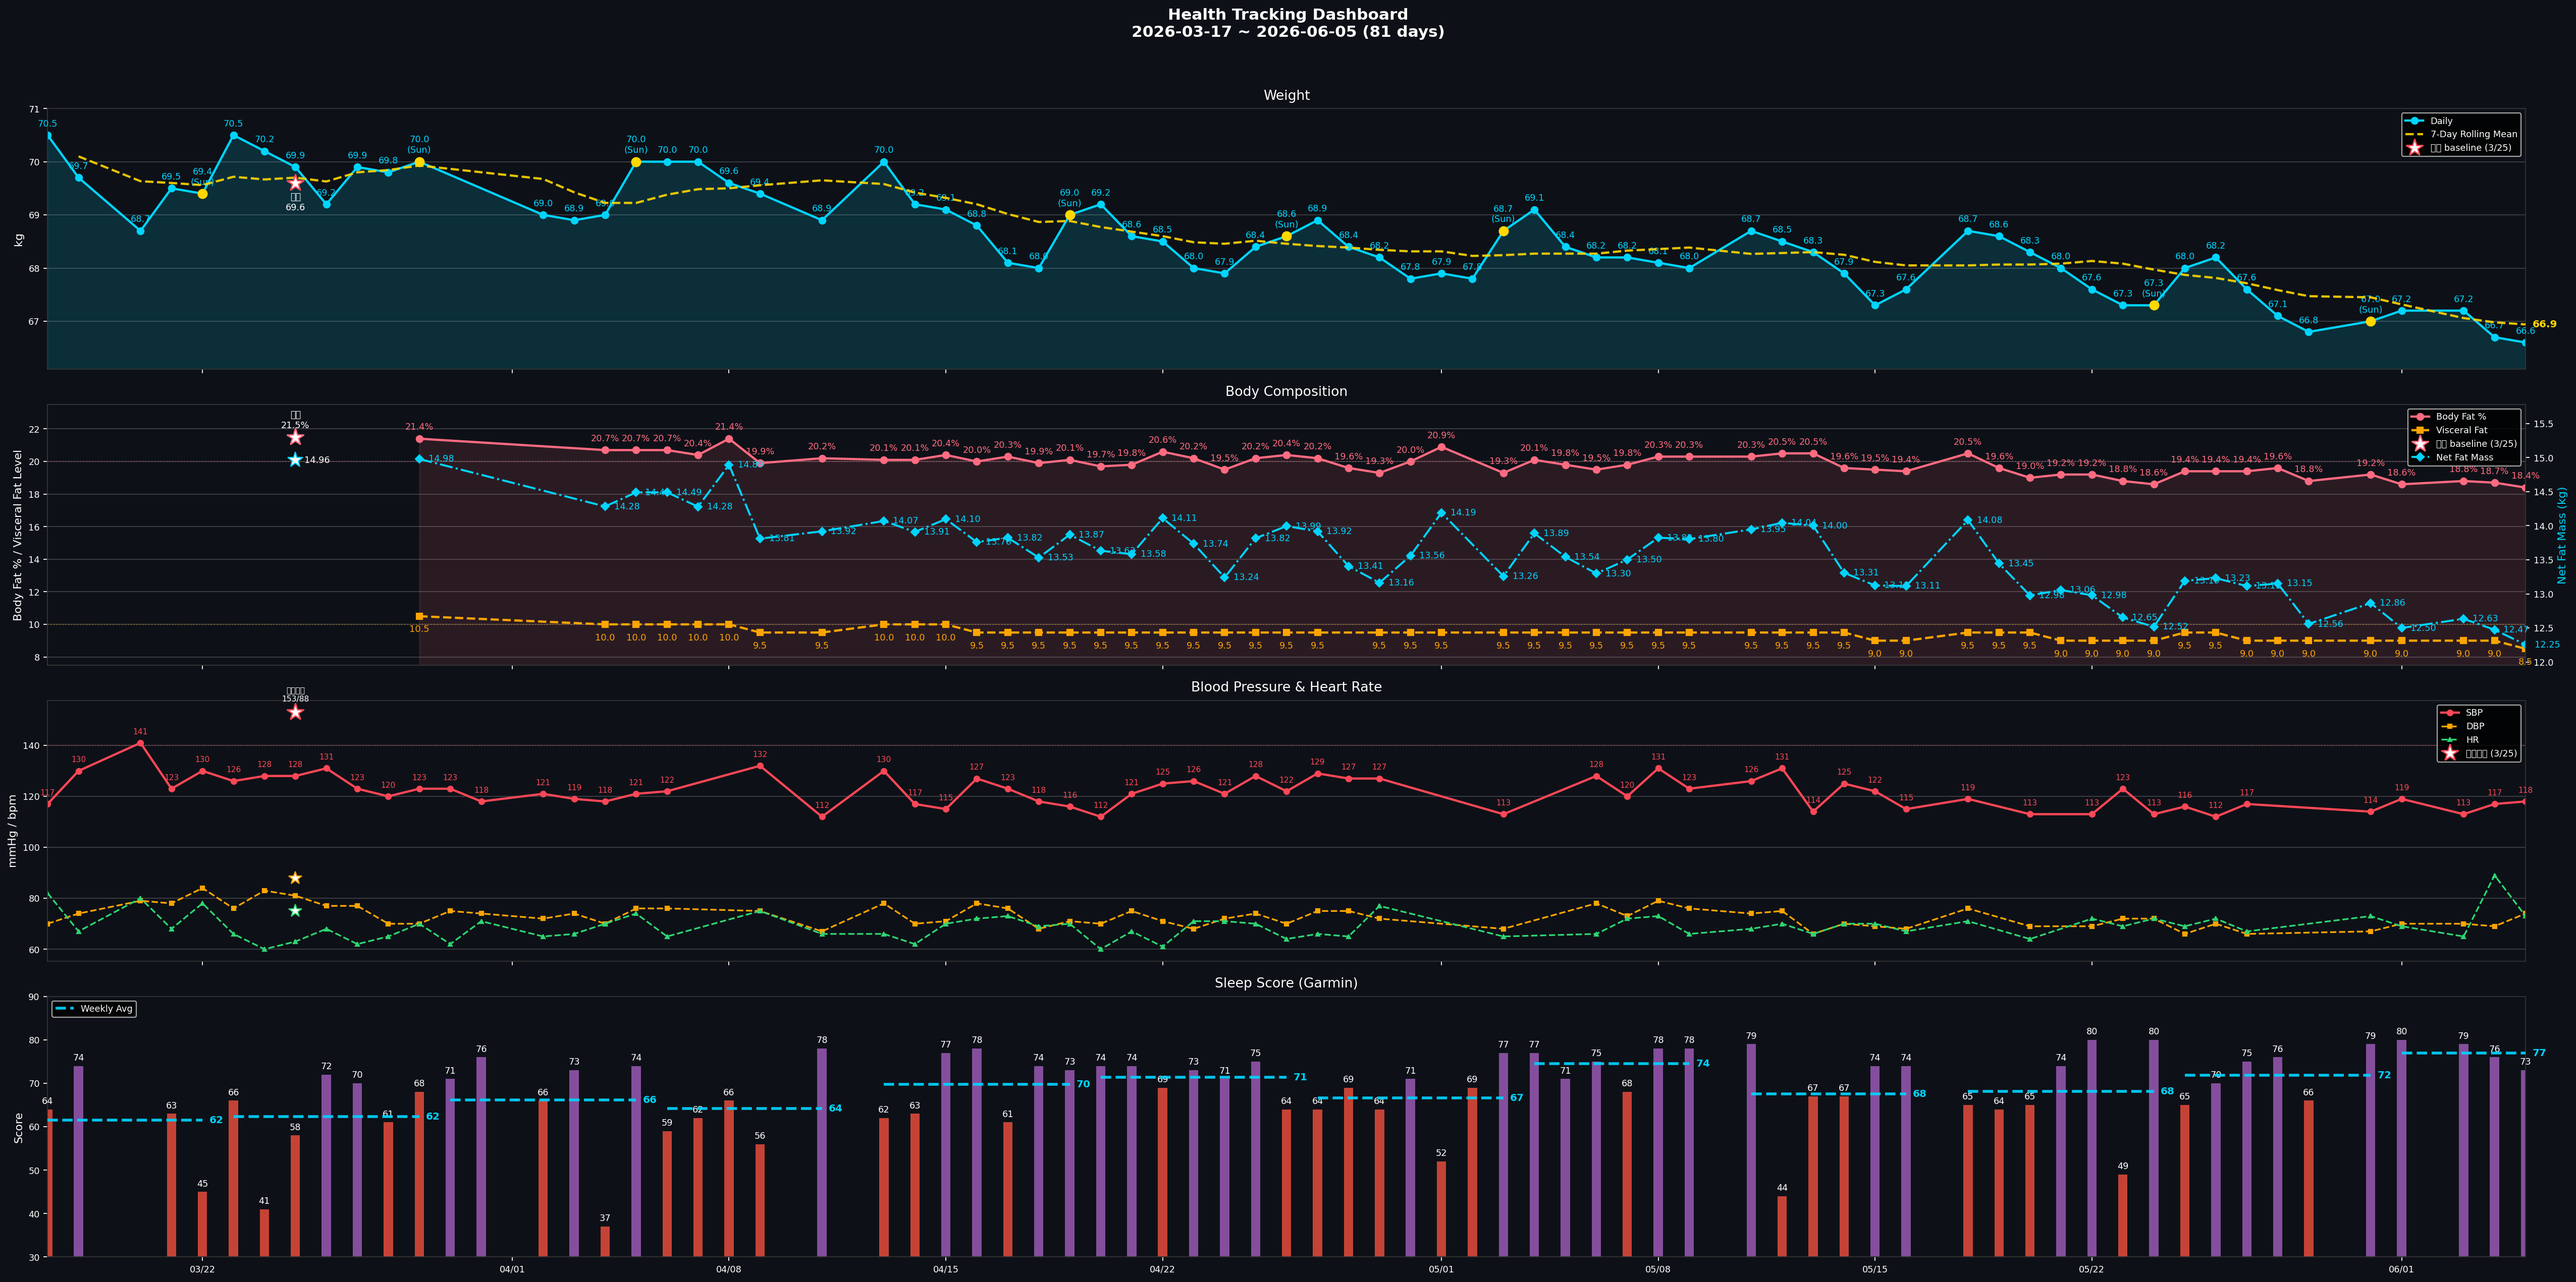
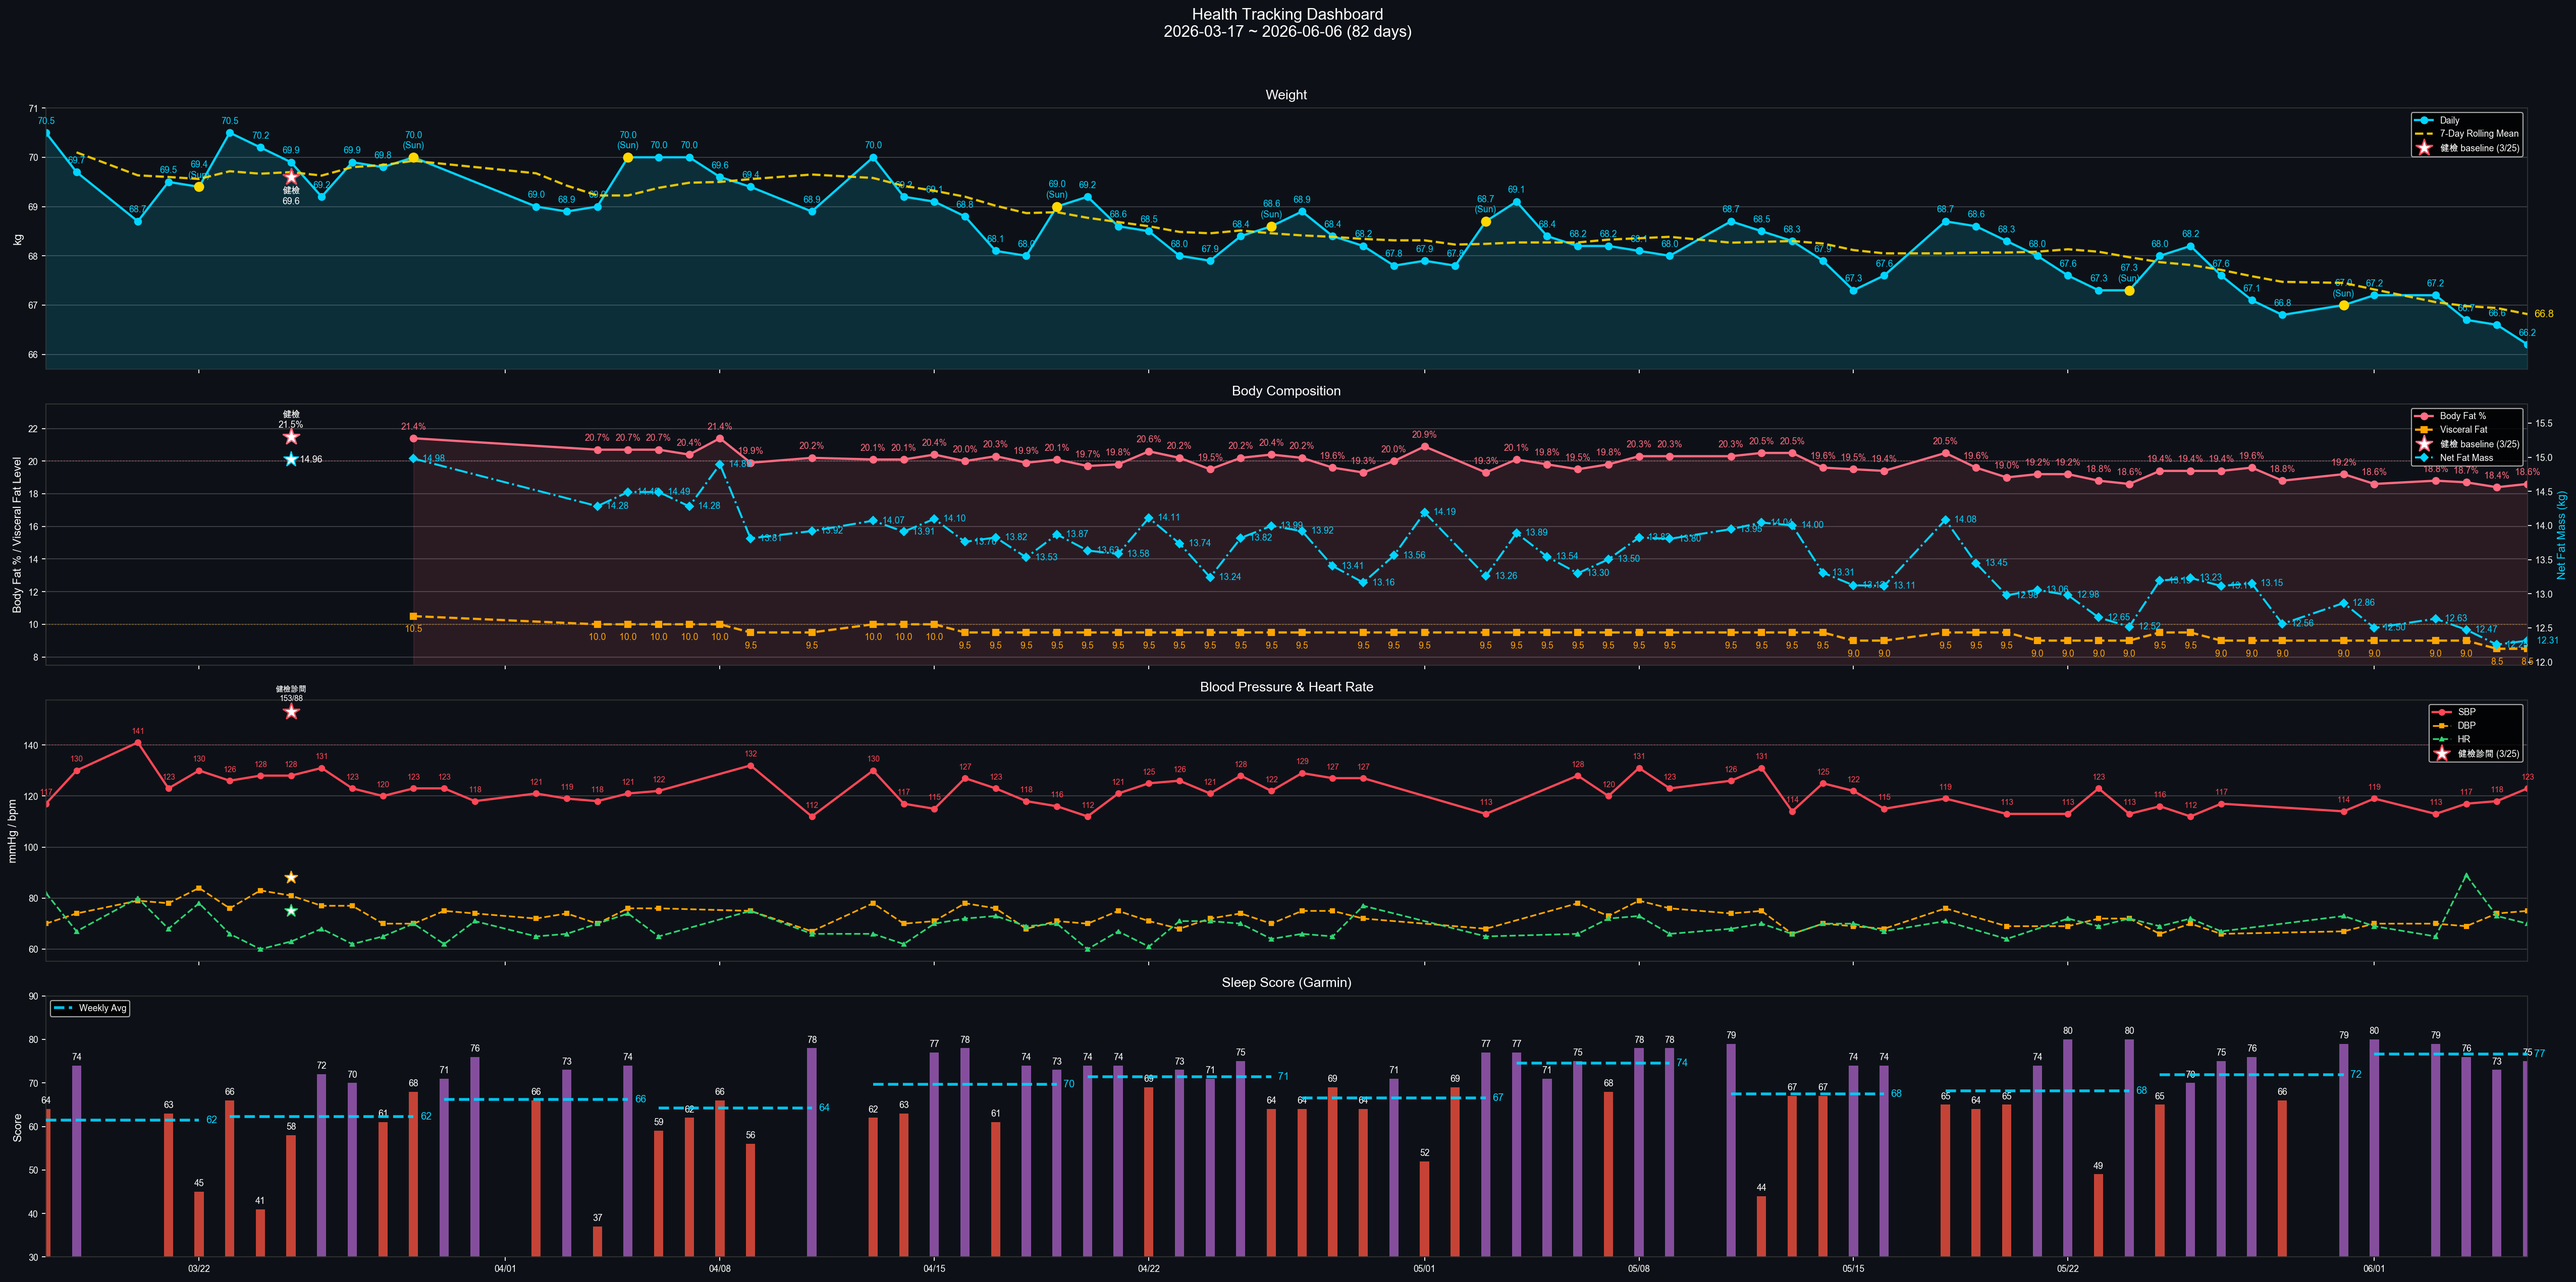
daily health log 2026-06-06

diff --git a/data.js b/data.js
@@ -17,20 +17,20 @@ window.HC_DATA = {
     lede:    { en: "Sleep, BP, lipids, uric acid — one shared metabolic root. Lifestyle stacks first; medication only after lifestyle plateaus.",
                zh: "睡眠、血壓、血脂、尿酸——共享同一個代謝根源。生活方式介入優先，等到效果平台期再考慮藥物。" },
     progressLbl: { en: "Weight progress · 70 → 65 kg", zh: "體重進度 · 70 → 65 公斤" },
-    progressMeta: { en: "Day 81 · 67.3 kg · Sat official (5/23)", zh: "第 81 天 · 67.3 公斤 · 週六正式（5/23）" },
-    startDate: { en: "Start date · Mar 17, 2026 · Last sync 6/5", zh: "起始日期 · 2026 年 3 月 17 日 · 最後同步 6/5" },
+    progressMeta: { en: "Day 82 · 66.2 kg · Sat official (6/6)", zh: "第 82 天 · 66.2 公斤 · 週六正式（6/6）" },
+    startDate: { en: "Start date · Mar 17, 2026 · Last sync 6/6", zh: "起始日期 · 2026 年 3 月 17 日 · 最後同步 6/6" },
     startWeight: 70,
     targetWeight: 65,
-    currentWeight: 67.3,
-    currentWeightDate: "5/23 Sat official",
+    currentWeight: 66.2,
+    currentWeightDate: "6/6 Sat official",
     // Body comp current actuals — latest daily reading (6/5). Manual for now:
     // sync_data_js.py does NOT yet populate these (only weight/BP/sleep). Update on daily check-in.
-    currentBodyFat: 18.4,
+    currentBodyFat: 18.6,
     currentVisceralFat: 8.5,
-    currentBodyCompDate: "6/5",
+    currentBodyCompDate: "6/6",
     // Waist = WHO midpoint (健檢-comparable; better VAT proxy than weight). Latest non-empty daily reading.
     currentWaist: 82,
-    currentWaistDate: "6/4",
+    currentWaistDate: "6/6",
   },
 
   // ===== OSA red-flag banner =====
@@ -55,21 +55,21 @@ window.HC_DATA = {
     {
       sys: "heart", name: { en: "Blood Pressure", zh: "血壓" },
       val: "115/67", unit: "mmHg",
-      delta: { en: "W22 weekly avg (4 days) · target met (<130) · last 118/74 (6/5)", zh: "W22 週均（4 天）· 已達標 (<130) · 最新 118/74 (6/5)" },
+      delta: { en: "W22 weekly avg (4 days) · target met (<130) · last 123/75 (6/6)", zh: "W22 週均（4 天）· 已達標 (<130) · 最新 123/75 (6/6)" },
       cadence: { en: "Daily · weekly avg", zh: "每日 · 週均" },
       status: "ok",
     },
     {
       sys: "sleep", name: { en: "Sleep Score", zh: "睡眠分數" },
-      val: "73", unit: "Garmin",
+      val: "75", unit: "Garmin",
       delta: { en: "5/4 · OSA flag: T90 18.4% (severe)", zh: "5/4 · OSA 紅旗：T90 18.4%（重度）" },
       cadence: { en: "Daily · Garmin", zh: "每日 · Garmin" },
       status: "warn",
     },
     {
       sys: "weight", name: { en: "Weight", zh: "體重" },
-      val: "67.3", unit: "kg",
-      delta: { en: "5/23 Sat official · auto-synced", zh: "5/23 週六正式 · 自動同步" },
+      val: "66.2", unit: "kg",
+      delta: { en: "6/6 Sat official · auto-synced", zh: "6/6 週六正式 · 自動同步" },
       cadence: { en: "Daily · Sat official", zh: "每日 · 週六正式" },
       status: "ok",
     },
@@ -937,17 +937,17 @@ window.HC_DATA = {
   tracker: {
     // [SBP, DBP] — gaps filled with prior reading
     bp: [
-      [113,69], [113,69], [123,72], [113,72], [116,66], [112,70], [117,66], [117,66], [117,66], [114,67], [119,70], [113,70], [117,69], [118,74],
+      [113,69], [123,72], [113,72], [116,66], [112,70], [117,66], [117,66], [117,66], [114,67], [119,70], [113,70], [117,69], [118,74], [123,75],
     ],
     // daily weight (kg)
-    weight: [68, 67.6, 67.3, 67.3, 68, 68.2, 67.6, 67.1, 66.8, 67, 67.2, 67.2, 66.7, 66.6],
+    weight: [67.6, 67.3, 67.3, 68, 68.2, 67.6, 67.1, 66.8, 67, 67.2, 67.2, 66.7, 66.6, 66.2],
     // Garmin Sleep Score
-    sleep:  [74, 80, 49, 80, 65, 70, 75, 76, 66, 79, 80, 79, 76, 73],
+    sleep:  [80, 49, 80, 65, 70, 75, 76, 66, 79, 80, 79, 76, 73, 75],
     // Body Battery waking
-    bb:     [61, 56, 34, 59, 55, 53, 64, 59, 55, 69, 71, 53, 41, 40],
+    bb:     [56, 34, 59, 55, 53, 64, 59, 55, 69, 71, 53, 41, 40, 39],
     // SpO2 nightly nadir % (last 14 days, parallel to bp/weight/sleep/bb).
     // Earlier nights null until sync_data_js.py backfills; banner only uses trailing values.
-    spo2Nadir: [83, 83, 84, null, null, 87, 93, 94, 91, 86, 89, 87, 92, 94],
+    spo2Nadir: [83, 84, null, null, 87, 93, 94, 91, 86, 89, 87, 92, 94, 85],
   },
 
   // ===== Running — started 2026-04-26 =====

diff --git a/reviews/daily/2026-06-06.md b/reviews/daily/2026-06-06.md
@@ -1,0 +1,116 @@
+# 晨間健康紀錄 — 2026-06-06
+
+*3 分鐘。起床後立即完成。記錄，不分析。*
+
+---
+
+## 體重 / 體組成
+
+**今日：66.2 kg**
+**體脂率：18.6 %**
+**內臟脂肪等級：8.5**
+**腰圍 (WHO midpoint)：82 cm**（最下肋骨下緣 + 髂嵴頂端兩點水平中點環繞，通常在肚臍上方 2-5 cm；**與健檢歷史可比**；目標維持 ≤ 83、推進至 < 80 cm）
+**腰圍 (最大腹圍)：[ ] cm**（自然站立、吐氣末、不收腹，軟尺上下移動找最大讀數；通常在肚臍 0 至 -4 cm；**對內臟脂肪變化最敏感**）
+
+*每週六早晨為正式體重紀錄（排尿後、進食前；連 5 個工作日後、週末大餐前的真實低點）。其他日可選填。*
+*腰圍每日量（起床排尿後、進食前）。量兩個位置（WHO + max），方向應一致；若差距 > 3 cm 持續，考慮以 max 為主追蹤指標。*
+*WHO midpoint：科學標準，國健署 / 健檢 / metabolic syndrome 診斷用；最大腹圍：內臟脂肪 visceral fat correlation 最強。*
+
+---
+
+## 血壓（晨間）
+
+*起床後 1 小時內，上完廁所、進食前。坐下安靜 5 分鐘，連量兩次取第二次。*
+
+| 次數 | 收縮壓 | 舒張壓 | 心率 |
+|------|--------|--------|------|
+| 第一次 | | | |
+| 第二次 | 123 | 75 | 70 |
+
+---
+
+## 睡眠狀態
+
+**Garmin 偵測入睡：** 22:02
+**實際上床：**（可選填 HH:MM；若填會覆寫演算法 latency 估算 — 解決 HR 訊號低估「躺床清醒」的問題）
+**實際起床：** 04:33
+**中途醒來：** 無
+**Garmin Sleep Score：** 75 / 100
+**Garmin Body Battery 起床值：** 39
+**主觀恢復感：** 3 / 5（1=極度疲憊, 5=精力充沛）
+**入睡 latency：**（自動估算，範圍 LO–HI 分）
+**TST：** 6h 27m｜深眠 86 分｜REM 43 分｜RHR 59 bpm
+
+### SpO2 夜間最低（7 晚趨勢）
+
+| 日期 | -6 | -5 | -4 | -3 | -2 | -1 | 今晨 |
+|------|----|----|----|----|----|----|------|
+| 日期 | 05-31 | 06-01 | 06-02 | 06-03 | 06-04 | 06-05 | 06-06 |
+| 最低 % | 86 | 89 | 86 | 87 | 92 | 86 | 85 |
+
+**今晨日均 SpO2：** 97.0 %
+**< 88% 連續晚數：** 2（OSA 紅旗門檻：連 3 晚 < 88% → 強烈建議 PSG）
+
+**Desat events（今晨）：** 3 段｜最長 3 分｜最低 85%｜T90 ≈ 1.8%（無紅旗：T90 < 10%、最長 < 15 分、最低 ≥ 80%）
+
+| 時段 | 長 | 最低 | 平均 | 分級 |
+|------|----|------|------|------|
+| 23:27–23:27 | 1分 | 88% | 88% | 🟢 邊緣 |
+| 23:29–23:31 | 3分 | 86% | 87% | 🟡 紅旗 |
+| 01:25–01:27 | 3分 | 85% | 86% | 🟡 紅旗 |
+
+**SpO2 全夜圖（含 hypnogram 條帶）：** reviews/daily/spo2/spo2_desat_2026-06-06.png
+**SpO2 趨勢圖：** reviews/daily/spo2/spo2_desat_trend.png
+**SpO2 全夜 Heatmap（28+ 晚 Venu 4 cohort）：** reviews/daily/spo2/spo2_heatmap_all_nights.png
+**SpO2 × 睡眠分期 7 晚疊圖：** reviews/daily/spo2/spo2_hypnogram_7night_2026-06-06.png
+
+*Sleep Score < 65 或 Body Battery < 50 連續三天 → 重新檢視睡眠修復方案。*
+
+---
+
+## 昨日回顧
+
+**實際飲水量：** 2.5 L（目標 ≥ 2.5L；高尿酸最佳 2.8–3.0L；17:00 前完成 60-70%）
+**昨日活動消耗：** [ ] kcal（主動 + BMR；自動讀自 Garmin daily summary 活動區塊）
+  - > 300 kcal → 今日可彈性增加 200-300 kcal 攝取
+  - < 100 kcal → 今日加強運動（補一段 Zone 2 走路 30 分）
+**昨日 Na / K / Na-K ratio：** [ ] mg / [ ] mg / [ ]（自動讀自 `scripts/analyze_nutrition.py --date YYYY-MM-DD`）
+  - Na/K < 0.5 ✅ / 0.5-0.6 🟢 / 0.6-0.8 🟡 / > 0.8 🟠（INTERSALT 1988）
+  - 連 3 天 ≥ 0.8 → 首選減鈉（自煮蛋取代茶葉蛋 −440 mg）或加 K（香蕉 +422 mg）
+
+---
+
+## 身體信號
+
+*任何張力、疼痛、疲勞、異常 — 或「清」。記位置、性質、強度。*
+
+| 部位 | 性質 | 強度 (0-10) |
+|------|------|-------------|
+| 清 | — | — |
+
+---
+
+## 今日計畫速記
+
+- [ ] 飲水目標：_____ L（建議 2.5–3.0L；錨點 09:30 ≥1.0L / 13:30 ≥2.0L / 17:00 截止 2.5L）
+- [ ] 補充品（核心，2026-05-11 v2）：
+  - 早餐（06:00）：D3 2000 IU + **K2 MK-7 180 mcg** + **L-Citrulline 4 g** + 益生菌
+  - 午餐前 30 min：Psyllium 5 g + 350 mL 水
+  - 晚餐前 30 min：Psyllium 5 g + 350 mL 水
+  - 晚餐後：魚油 ×4（拆 18:30 ×2 + 19:30 ×2）
+  - 睡前（21:00）：鎂甘胺酸 400 mg + 酸櫻桃 1000-2000 mg + **Glycine 純粉 3 g**（起步 1.5 g × 3 晚）
+  - 茶飲：洛神花 ×2 杯（早 + 14:00 前）
+  - 食物層：南瓜籽 30 g（15:30）+ **菇蕈 100-130 g/天**（午 30-50 + 晚 50-80）
+  - ⏸ 待定：NAC 600 mg × 2（待 PSG 結果）
+- [ ] 運動（17:00 固定）：____________________
+- [ ] 活動度/伸展（09:30 + 20:30 兩次錨點）：____________________
+- [ ] Wind-down（20:00 燈光降 + 螢幕濾鏡，液體截止）
+- [ ] 上床 21:30 / 熄燈 22:00（TST 目標 7h+）
+
+---
+
+💡 PT 建議：Body Battery 起床值 39（< 40）+ 04:33 早醒、TST 6h27m + 主觀 3，今日歸「恢復不足」——運動降級，靠牆深蹲減一組、快走改散步，優先補恢復而非加強度。REM 僅 43 分（< 60）偏低，今天減少高認知負荷決策，重要決定可往後排。今晨 SpO2 最低 85%（< 88% 紅旗），且為連續第 2 晚 < 88%（昨 86）；尚未達「連 3 晚」PSG 門檻但已逼近——今晚務必側睡 + 楔形枕，若明晨仍 < 88% 即把 PSG 預約升為當週首要任務。
+
+---
+
+*Filed: reviews/daily/2026-06-06.md*

diff --git a/reviews/weekly/2026-W23.md b/reviews/weekly/2026-W23.md
@@ -31,13 +31,13 @@
 
 |  | 一 | 二 | 三 | 四 | 五 | 六 | 日 |
 |--|----|----|----|----|----|----|-----|
-| 體重 (kg) | 67.2 | | 67.2 | 66.7 | 66.6 | | |
-| 體脂率 (%) | 18.6 | | 18.8 | 18.7 | 18.4 | | |
-| 內臟脂肪 | 9.0 | | 9.0 | 9.0 | 8.5 | | |
-| **腰圍 WHO (cm)** | 83 | | | 82 | | | |
+| 體重 (kg) | 67.2 | | 67.2 | 66.7 | 66.6 | 66.2 | |
+| 體脂率 (%) | 18.6 | | 18.8 | 18.7 | 18.4 | 18.6 | |
+| 內臟脂肪 | 9.0 | | 9.0 | 9.0 | 8.5 | 8.5 | |
+| **腰圍 WHO (cm)** | 83 | | | 82 | | 82 | |
 | **腰圍 max (cm)** | | | | | | | |
 
-**本週正式讀數（週六早晨）：** _____ kg｜體脂率：_____%｜內臟脂肪：_____｜腰圍：_____ cm
+**本週正式讀數（週六早晨）：** 66.2 kg｜體脂率：18.6%｜內臟脂肪：8.5｜腰圍：82 cm
 **上週正式讀數（週六早晨）：** _____ kg｜體脂率：_____%｜內臟脂肪：_____｜腰圍：_____ cm
 **體重變化：** _____ kg｜體脂率變化：_____%｜內臟脂肪變化：_____｜**腰圍變化：** _____ cm
 
@@ -56,7 +56,7 @@
 | 06-03 (三) | 113 | 70 | 65 |
 | 06-04 (四) | 117 | 69 | 89 |
 | 06-05 (五) | 118 | 74 | 73 |
-| 06-06 (六) | | | |
+| 06-06 (六) | 123 | 75 | 70 |
 | 06-07 (日) | | | |
 
 **本週平均：** _____ / _____ mmHg，心率 _____ bpm
@@ -74,7 +74,7 @@
 | 06-03 (三) | 22:02 | 05:17 | 無 | 79 | 53 | 3 |
 | 06-04 (四) | 23:03 | 05:37 | 無 | 76 | 41 | 3 |
 | 06-05 (五) | 22:53 | 04:48 | 無 | 73 | 40 | 3 |
-| 06-06 (六) | | | | | | |
+| 06-06 (六) | 22:02 | 04:33 | 無 | 75 | 39 | 3 |
 | 06-07 (日) | | | | | | |
 
 **Sleep Score 週均：** _____ / 100
@@ -105,7 +105,7 @@
 
 | 信號（部位+性質） | 出現天數 | 平均強度 | 趨勢（↑↓→） | 備註 |
 |-------------------|----------|----------|-------------|------|
-| 清（無信號） | 4 | 0 | → | 06-01, 06-03, 06-04, 06-05 |
+| 清（無信號） | 5 | 0 | → | 06-01, 06-03, 06-04, 06-05, 06-06 |
 
 **反覆出現（≥ 3 天）：** 無
 

diff --git a/reports/daily-garmin/2026-06-05.md b/reports/daily-garmin/2026-06-05.md
@@ -14,20 +14,23 @@
 - 日均：37
 
 ## 步數
-- 總計：3,528
+- 總計：10,269
 
 ## SpO2
-- 日均：97.0%
-- 最低：94%
+- 日均：96.0%
+- 最低：86%
 
 ## 活動
 | 時段 | 類型 | 距離 | 時長 | 平均 HR | 最大 HR | 主動 kcal | 含 BMR |
 |------|------|------|------|---------|---------|-----------|--------|
 | 09:26 | cycling | 1.18 km | 8.1 min | 133 | 154 | 64 | 75 |
+| 12:55 | walking | 0.66 km | 7.9 min | 122 | 138 | 39 | 49 |
+| 17:13 | cycling | 1.08 km | 4.4 min | 124 | 140 | 31 | 37 |
+| **小計** | 3 段 | **2.93 km** | **20.4 min** | — | — | **134** | **161** |
 
 ## 飲水
 - 實際：0.00 L
-- 目標：2.12 L
-- 運動流汗耗水：0.12 L
+- 目標：2.28 L
+- 運動流汗耗水：0.28 L
 
 _Source: data/garmin/2026-06-05.json (gitignored)_

diff --git a/reports/daily-garmin/2026-06-06.md b/reports/daily-garmin/2026-06-06.md
@@ -1,0 +1,27 @@
+# Garmin 每日摘要 — 2026-06-06
+
+## 睡眠
+- 就寢：22:02｜起床：04:33
+- 總時長：6h 27m
+- 深眠：86 分｜REM：43 分
+- Sleep Score：75
+- Body Battery 起床值：39
+
+## 靜息心率
+- RHR：59.0 bpm
+
+## 壓力
+- 日均：24
+
+## 步數
+- 總計：50
+
+## SpO2
+- 日均：97.0%
+- 最低：85%
+
+## 飲水
+- 實際：— （Garmin Connect 未紀錄，請於 check-in 手動輸入）
+- 目標：2.00 L
+
+_Source: data/garmin/2026-06-06.json (gitignored)_
